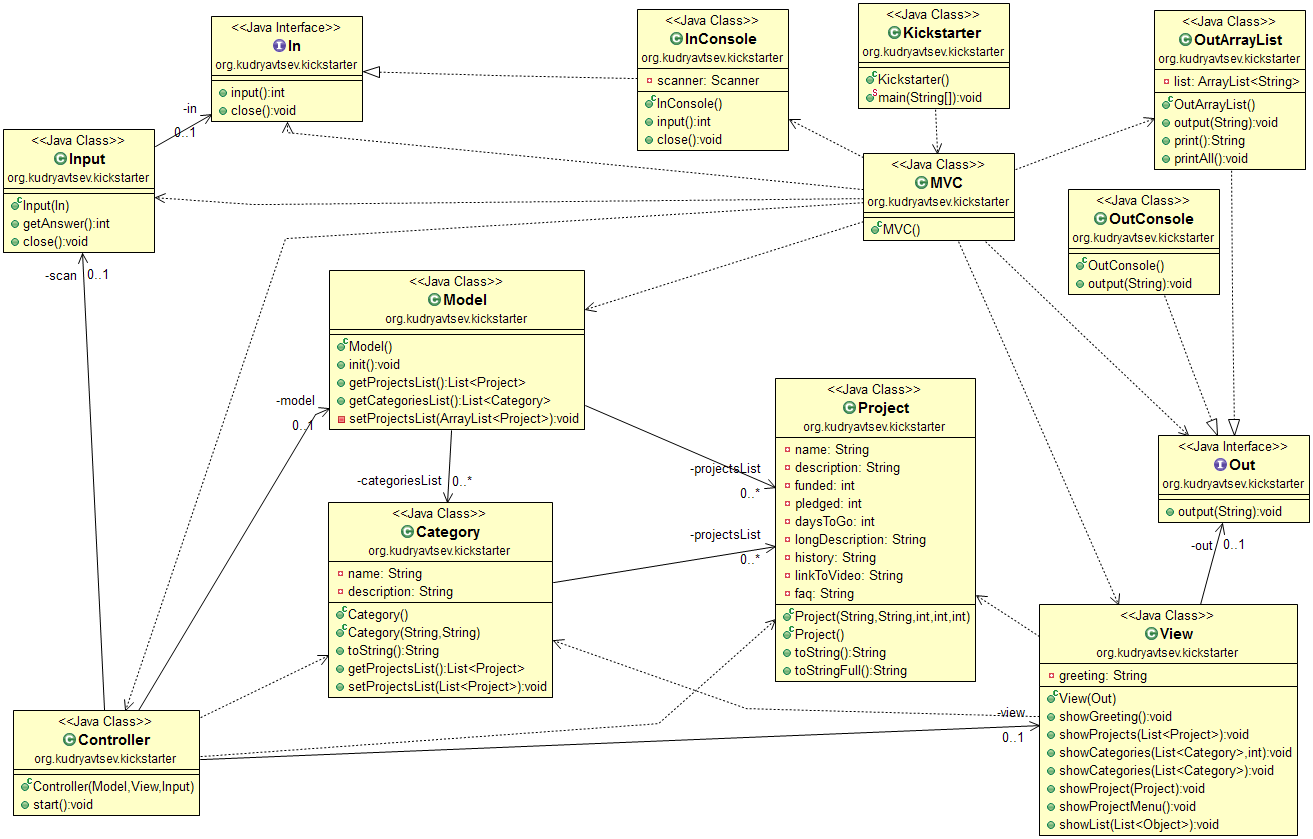
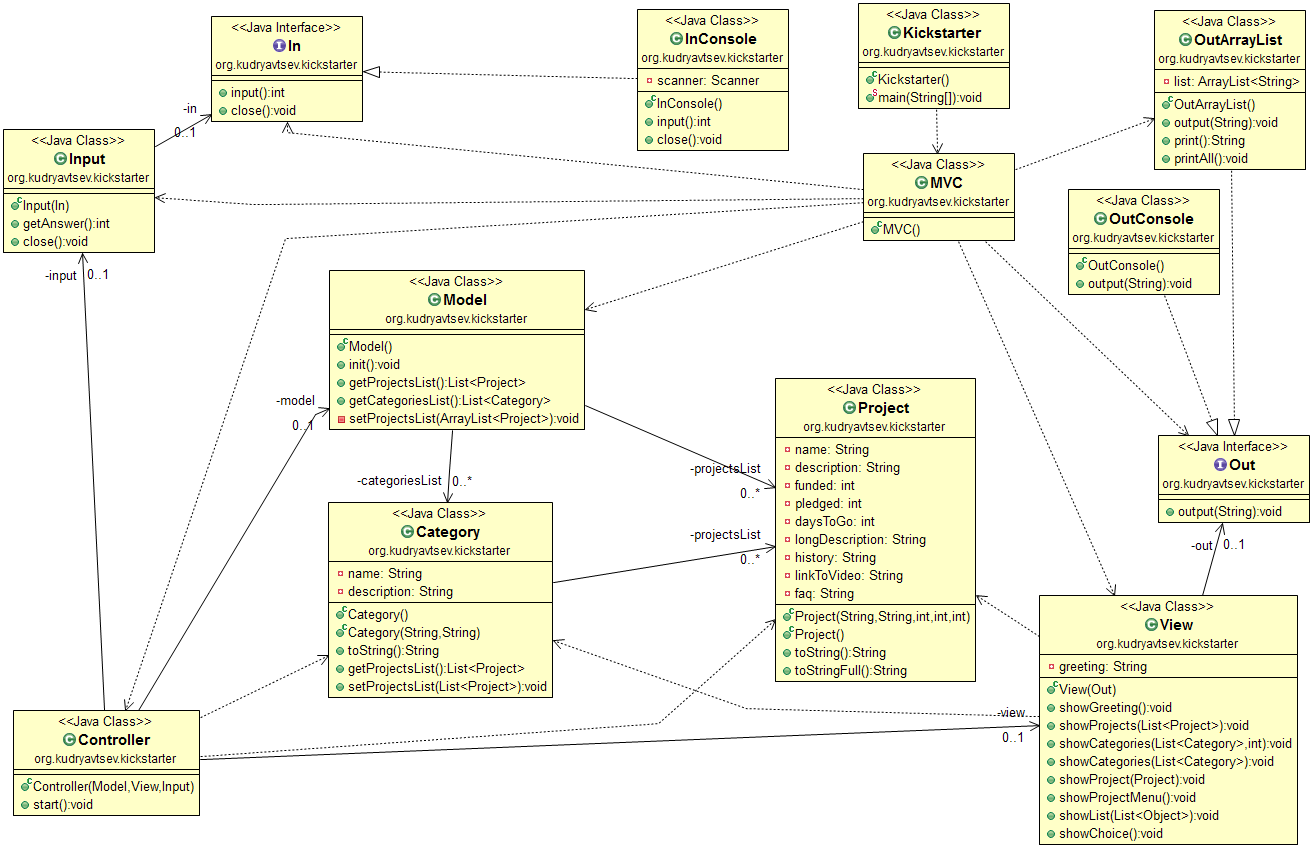
Create class InArrayList (implementation of In interface)(Kickstarter project, GoJava2, Oleksiy Kudryavcev) -Set default input to InArrayList -split start method in Controller into several methods -minor changes
git-svn-id: http://go-java-1.googlecode.com/svn@1042 371e26f7-1d5d-4d7b-6139-2def7fa80f1e

diff --git a/trunk/GoJava2/oleksiy.kudryavcev/Kickstarter/src/org/kudryavtsev/kickstarter/Controller.java b/trunk/GoJava2/oleksiy.kudryavcev/Kickstarter/src/org/kudryavtsev/kickstarter/Controller.java
@@ -5,52 +5,61 @@ import java.util.List;
 public class Controller {
     private Model model;
     private View view;
-    private Input scan;
+    private Input input;
 
-    public Controller(Model model, View view, Input scan) {
+    public Controller(Model model, View view, Input input) {
         this.model = model;
         this.view = view;
-        this.scan = scan;
+        this.input = input;
     }
 
     public void start() {
         model.init();
         view.showGreeting();
-        List<Project> projectsList = model.getProjectsList();
         List<Category> categoriesList = model.getCategoriesList();
+        processingCategoriesList(categoriesList);
+        input.close();
+    }
 
-        boolean exitFromApplication = false;
-        while (!exitFromApplication) {
+    private void processingCategoriesList(List<Category> categoriesList) {
+        while (true) {
             view.showCategories(categoriesList);
-            int numberOfCategory = scan.getAnswer();
+            int numberOfCategory = input.getAnswer();
             if ((numberOfCategory == 0) || (numberOfCategory > categoriesList.size()))
                 break;
-            boolean exitFromCategories = false;
-            while (!exitFromCategories) {
-                view.showProjects(categoriesList.get(numberOfCategory - 1).getProjectsList());
-                int numberOfProject = scan.getAnswer();
-                if ((numberOfProject == 0) || (numberOfProject > categoriesList.get(numberOfCategory - 1).getProjectsList().size()))
-                    break;
-                boolean exitFromProject = false;
-                while (!exitFromProject) {
-                    view.showProject(categoriesList.get(numberOfCategory - 1).getProjectsList()
-                            .get(numberOfProject - 1));
-                    view.showProjectMenu();
-                    int projectOption = scan.getAnswer();
-                    if (projectOption != 0) {
-                        System.out.println("Selected option: ");
-                    } else
-                        System.out.println("Exiting from project");
-                    exitFromProject = true;
-                }
-                if (numberOfProject == 0) {
-                    break;
-                }
-            }
+            processingProjectsList(categoriesList, numberOfCategory);
             if (numberOfCategory == 0) {
                 break;
             }
         }
-        scan.close();
+    }
+
+    private void processingProjectsList(List<Category> categoriesList, int numberOfCategory) {
+        while (true) {
+            view.showProjects(categoriesList.get(numberOfCategory - 1).getProjectsList());
+            int numberOfProject = input.getAnswer();
+            if ((numberOfProject == 0)
+                    || (numberOfProject > categoriesList.get(numberOfCategory - 1)
+                            .getProjectsList().size()))
+                break;
+            processingProject(categoriesList, numberOfCategory, numberOfProject);
+            if (numberOfProject == 0) {
+                break;
+            }
+        }
+    }
+
+    private void processingProject(List<Category> categoriesList, int numberOfCategory,
+            int numberOfProject) {
+        while (true) {
+            view.showProject(categoriesList.get(numberOfCategory - 1).getProjectsList()
+                    .get(numberOfProject - 1));
+            int projectOption = input.getAnswer();
+            if (projectOption != 0) {
+                view.show("Selected option: ");
+            } else if (projectOption == 0) {
+                break;
+            }
+        }
     }
 }

diff --git a/trunk/GoJava2/oleksiy.kudryavcev/Kickstarter/src/org/kudryavtsev/kickstarter/View.java b/trunk/GoJava2/oleksiy.kudryavcev/Kickstarter/src/org/kudryavtsev/kickstarter/View.java
@@ -12,7 +12,7 @@ public class View {
     }
 
     public void showGreeting() {
-        out.output(greeting);
+        show(greeting);
     }
 
     public void showProjects(List<Project> projectslist) {
@@ -21,6 +21,7 @@ public class View {
             out.output("(" + counter + ") " + project);
             counter++;
         }
+        showChoice();
     }
 
     public void showCategories(List<Category> list, int i) {
@@ -33,12 +34,12 @@ public class View {
             out.output("(" + counter + ") " + category);
             counter++;
         }
-        // List<Object> list = categoryList;
-        // showList(list);
+        showChoice();
     }
 
     public void showProject(Project project) {
         out.output(project.toStringFull());
+        showChoice();
     }
 
     public void showProjectMenu() {
@@ -51,5 +52,12 @@ public class View {
             out.output("(" + counter + ") " + element);
             counter++;
         }
+    }
+    public void showChoice(){
+        out.output("You choice (0 - exit):");
+    }
+    
+    public void show(String string){
+        out.output(string);
     }
 }

diff --git a/trunk/GoJava2/oleksiy.kudryavcev/Kickstarter/src/org/kudryavtsev/kickstarter/InArrayList.java b/trunk/GoJava2/oleksiy.kudryavcev/Kickstarter/src/org/kudryavtsev/kickstarter/InArrayList.java
@@ -1,0 +1,25 @@
+package org.kudryavtsev.kickstarter;
+
+import java.util.ArrayList;
+import java.util.Collections;
+import java.util.List;
+
+public class InArrayList implements In {
+    private List<Integer> list;
+
+    public InArrayList() {
+        list = new ArrayList<Integer>();
+        Collections.addAll(list, 1, 1, 0, 2, 0, 0, 2, 1, 0, 2, 0, 0, 3, 1, 0, 2, 0, 0, 0);
+    }
+
+    @Override
+    public int input() {
+        System.out.println(list.get(0));
+        return list.remove(0);
+    }
+
+    @Override
+    public void close() {
+    }
+
+}

diff --git a/trunk/GoJava2/oleksiy.kudryavcev/Kickstarter/src/org/kudryavtsev/kickstarter/MVC.java b/trunk/GoJava2/oleksiy.kudryavcev/Kickstarter/src/org/kudryavtsev/kickstarter/MVC.java
@@ -3,7 +3,9 @@ package org.kudryavtsev.kickstarter;
 public class MVC {
     public MVC() {
         Out whereToOut = new OutArrayList();
-        In whereToIn = new InConsole();
+//        Out whereToOut = new OutConsole();
+        In whereToIn = new InArrayList();
+//        In whereToIn = new InConsole();
         
         Model model = new Model();
         View view = new View(whereToOut);

diff --git a/trunk/GoJava2/oleksiy.kudryavcev/Kickstarter/src/org/kudryavtsev/kickstarter/InConsole.java b/trunk/GoJava2/oleksiy.kudryavcev/Kickstarter/src/org/kudryavtsev/kickstarter/InConsole.java
@@ -7,7 +7,7 @@ public class InConsole implements In {
     
     @Override
     public int input() {
-        System.out.print("You choice (0 - exit):");
+        System.out.println("You choice (0 - exit):");
         int answer = 0;
 //        try {
             answer = scanner.nextInt();

diff --git a/trunk/GoJava2/oleksiy.kudryavcev/Kickstarter/src/org/kudryavtsev/kickstarter/package-info.java b/trunk/GoJava2/oleksiy.kudryavcev/Kickstarter/src/org/kudryavtsev/kickstarter/package-info.java
@@ -3,6 +3,6 @@
  */
 /**
  * @author Omicrown
- * @version 0.05
+ * @version 0.15
  */
 package org.kudryavtsev.kickstarter;
